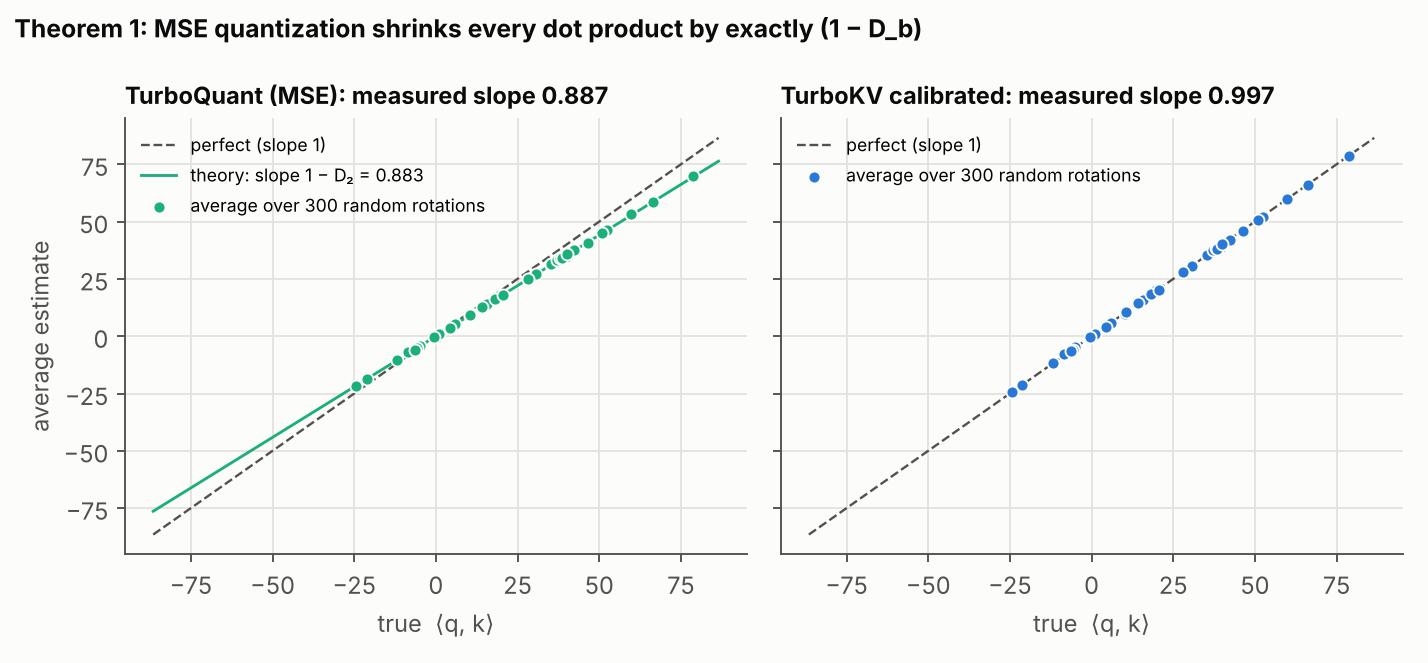
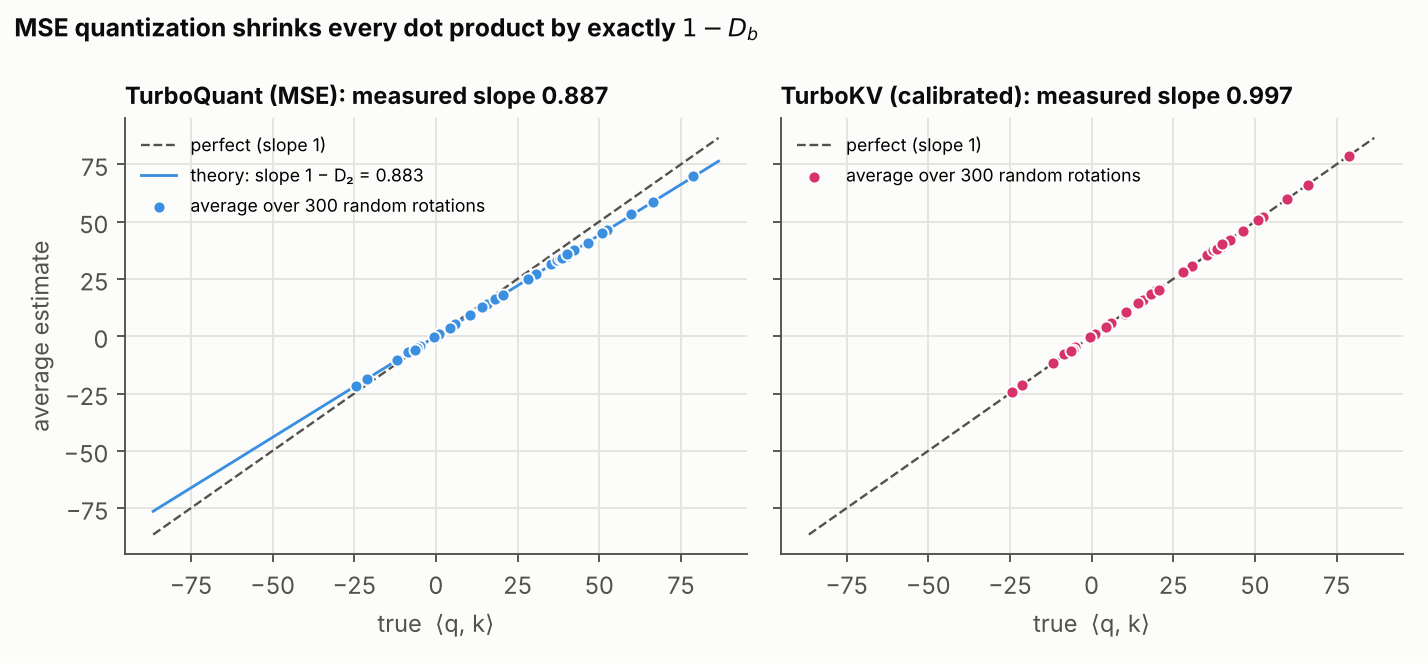
clean up labels and refresh figures

diff --git a/benchmarks/make_figures.py b/benchmarks/make_figures.py
@@ -25,7 +25,8 @@ FIG = os.path.join(ROOT, "figures")
 os.makedirs(FIG, exist_ok=True)
 
 INK, INK2, GRID, SURF = "#0b0b0b", "#52514e", "#e4e3df", "#fcfcfb"
-BLUE, ORANGE, AQUA, VIOLET, GRAY = "#2a78d6", "#eb6834", "#1baf7a", "#6250d6", "#9a9994"
+PINK, PURPLE, BLUE = "#d6336c", "#7048e8", "#3b8fe0"
+GRAY_DARK, GRAY_LIGHT = "#6b6a66", "#a8a7a2"
 
 plt.rcParams.update({
     "font.size": 10, "axes.edgecolor": INK2, "axes.labelcolor": INK2, "xtick.color": INK2,
@@ -47,30 +48,30 @@ def hero():
     runs = [json.load(open(os.path.join(ROOT, f"results/tiny_gpt_seed{s}.json")))["results"]
             for s in range(3)]
     base = runs[0][0]["ppl"]
-    series = [  # (label prefix in results, legend name, color, marker, emphasis)
-        ("int per-token", "int per-token", GRAY, "s", False),
-        ("KIVI-style", "KIVI-style", ORANGE, "^", False),
-        ("TurboQuant-mse", "TurboQuant (MSE)", AQUA, "v", False),
-        ("TurboQuant-prod", "TurboQuant (prod / QJL)", VIOLET, "D", False),
-        ("TurboKV (ours)", "TurboKV (ours)", BLUE, "o", True),
+    series = [  # (method label in results, legend name, color, marker, linestyle, emphasis)
+        ("int per-token", "int per-token", GRAY_LIGHT, "s", ":", False),
+        ("TurboQuant-mse", "TurboQuant (MSE)", GRAY_DARK, "v", "--", False),
+        ("KIVI-style", "KIVI-style", BLUE, "^", "-", False),
+        ("TurboQuant-prod", "TurboQuant (prod / QJL)", PURPLE, "D", "-", False),
+        ("TurboKV", "TurboKV", PINK, "o", "-", True),
     ]
     fig, ax = plt.subplots(figsize=(8, 4.8), dpi=170)
-    for prefix, name, c, mk, ours in series:
-        idx = [i for i, r in enumerate(runs[0]) if r["label"].startswith(prefix + " ")]
+    for method, name, c, mk, ls, hero_line in series:
+        idx = [i for i, r in enumerate(runs[0]) if r["label"].rsplit(" ", 1)[0] == method]
         bits = np.array([runs[0][i]["bits"] for i in idx])
         d = np.array([[run[i]["ppl"] - base for i in idx] for run in runs])
         mean, sd = d.mean(0), d.std(0)
         o = np.argsort(bits)
-        ax.errorbar(bits[o], mean[o], yerr=sd[o], color=c, marker=mk, ms=8 if ours else 6,
-                    lw=2.6 if ours else 1.6, capsize=3, zorder=5 if ours else 3,
+        ax.errorbar(bits[o], mean[o], yerr=sd[o], color=c, marker=mk, ms=8 if hero_line else 6,
+                    lw=2.8 if hero_line else 1.6, ls=ls, capsize=3, zorder=5 if hero_line else 3,
                     mec=SURF, mew=1.2, label=name)
-        if ours:  # the legend names the rest; one direct label avoids collisions
+        if hero_line:  # the legend names the rest; one direct label avoids collisions
             x, y = bits[o][0], mean[o][0]
             ax.annotate(f"{name}\n{16 / x:.1f}× smaller, about half the damage", (x, y),
                         xytext=(-10, 0), textcoords="offset points", ha="right", va="center",
                         fontsize=9, color=INK, fontweight="bold")
     ax.set_yscale("log")
-    ax.set_xlim(0.9, 4.7)
+    ax.set_xlim(1.3, 4.7)
     ax.set_xlabel("bits per cached number  (16 = uncompressed)")
     ax.set_ylabel("perplexity increase vs. FP16  (log, lower is better)")
     ax.set_title("Damage to a real trained GPT when its KV cache is compressed", pad=12)
@@ -94,15 +95,15 @@ def shrinkage(seeds=300, d=128):
     q[:20] += 0.25 * k
     true = (q @ k.T)[:, 0]
     fig, axes = plt.subplots(1, 2, figsize=(8.4, 3.9), dpi=170, sharey=True)
-    for ax, (cls, name, c) in zip(axes, [(TurboQuantMSE, "TurboQuant (MSE)", AQUA),
-                                         (TurboQuantCal, "TurboKV calibrated", BLUE)]):
+    for ax, (cls, name, c) in zip(axes, [(TurboQuantMSE, "TurboQuant (MSE)", BLUE),
+                                         (TurboQuantCal, "TurboKV (calibrated)", PINK)]):
         est = np.array([cls(d, 2, seed=s).inner_products(q, cls(d, 2, seed=s).quantize(k))[:, 0]
                         for s in range(seeds)]).mean(0)
         lim = np.abs(true).max() * 1.1
         ax.plot([-lim, lim], [-lim, lim], color=INK2, lw=1, ls="--", label="perfect (slope 1)")
         if cls is TurboQuantMSE:
             sl = 1 - gaussian_distortion(2)
-            ax.plot([-lim, lim], [-lim * sl, lim * sl], color=AQUA, lw=1.2,
+            ax.plot([-lim, lim], [-lim * sl, lim * sl], color=BLUE, lw=1.2,
                     label=f"theory: slope 1 − D₂ = {sl:.3f}")
         ax.scatter(true, est, s=26, color=c, edgecolor=SURF, lw=0.8, zorder=4,
                    label="average over 300 random rotations")
@@ -112,7 +113,7 @@ def shrinkage(seeds=300, d=128):
         _style(ax)
         ax.legend(frameon=False, fontsize=7.5, loc="upper left")
     axes[0].set_ylabel("average estimate")
-    fig.suptitle("Theorem 1: MSE quantization shrinks every dot product by exactly (1 − D_b)",
+    fig.suptitle("MSE quantization shrinks every dot product by exactly $1 - D_b$",
                  x=0.01, ha="left", fontweight="bold", color=INK, fontsize=10.5)
     fig.tight_layout()
     fig.savefig(os.path.join(FIG, "shrinkage.png"))
@@ -138,9 +139,9 @@ def variance(seeds=200, d=128):
     fig, ax = plt.subplots(figsize=(7.6, 4.2), dpi=170)
     x = np.arange(len(bits))
     w = 0.36
-    for off, key, name, c in ((-w / 2 - 0.01, "qjl", "TurboQuant prod (QJL)", VIOLET),
-                              (w / 2 + 0.01, "cal", "TurboKV calibrated (ours)", BLUE)):
-        ax.bar(x + off, meas[key], w, color=c, label=name + " — measured", zorder=3)
+    for off, key, name, c in ((-w / 2 - 0.01, "qjl", "TurboQuant prod (QJL)", PURPLE),
+                              (w / 2 + 0.01, "cal", "TurboKV (calibrated)", PINK)):
+        ax.bar(x + off, meas[key], w, color=c, label=name + ", measured", zorder=3)
         th = [variance_factor(key, b) for b in bits]
         ax.scatter(x + off, th, marker="_", s=500, color=INK, lw=1.6, zorder=4)
     ax.scatter([], [], marker="_", s=200, color=INK, label="closed-form theory")
@@ -151,7 +152,7 @@ def variance(seeds=200, d=128):
     ax.set_yscale("log")
     ax.set_xticks(x, [f"{b} bit{'s' if b > 1 else ''}" for b in bits])
     ax.set_ylabel("variance of ⟨q, k̂⟩   (units of ‖q‖²/d, log)")
-    ax.set_title("Theorem 2: same bits, both unbiased — calibration has far less noise", pad=10)
+    ax.set_title("Same bits, both unbiased: calibration has far less noise", pad=10)
     _style(ax)
     ax.grid(axis="x", visible=False)
     ax.legend(frameon=False, fontsize=8.5)

diff --git a/benchmarks/bench_attention.py b/benchmarks/bench_attention.py
@@ -27,7 +27,7 @@ METHODS = [
     *[(f"KIVI-style int{b}", f"kivi{b}", False, "kivi") for b in (4, 3, 2)],
     *[(f"TurboQuant-prod K{b}V{b}", f"qjl{b}/mse{b}", False, "qjl") for b in (4, 3, 2)],
     *[(f"TurboQuant-mse K{b}V{b}", f"mse{b}/mse{b}", False, "mse") for b in (4, 3, 2)],
-    *[(f"TurboKV K{b}V{b} (ours)", f"cal{b}/cal{b}", False, "cal") for b in (4, 3, 2)],
+    *[(f"TurboKV K{b}V{b}", f"cal{b}/cal{b}", False, "cal") for b in (4, 3, 2)],
     *[(f"TurboKV+NAT K{b}V{b}", f"cal{b}/cal{b}", True, "calna") for b in (4, 3, 2)],
 ]
 
@@ -93,12 +93,13 @@ def print_table(rows):
 
 
 STYLE = {
-    "int": ("#9a9994", "s", "int-b per-token"),
-    "kivi": ("#eb6834", "^", "KIVI-style (per-channel keys)"),
-    "qjl": ("#6250d6", "D", "TurboQuant-prod (QJL keys)"),
-    "mse": ("#1baf7a", "v", "TurboQuant-mse"),
-    "cal": ("#2a78d6", "o", "TurboKV: calibrated K+V (ours)"),
-    "calna": ("#52514e", "*", "TurboKV + NAT (experimental)"),
+    # (color, marker, linestyle, label)
+    "int": ("#a8a7a2", "s", ":", "int-b per-token"),
+    "mse": ("#6b6a66", "v", "--", "TurboQuant-mse"),
+    "kivi": ("#3b8fe0", "^", "-", "KIVI-style (per-channel keys)"),
+    "qjl": ("#7048e8", "D", "-", "TurboQuant-prod (QJL keys)"),
+    "cal": ("#d6336c", "o", "-", "TurboKV"),
+    "calna": ("#d6336c", "*", "--", "TurboKV + NAT (experimental)"),
 }
 
 
@@ -108,19 +109,24 @@ def plot(rows, path, metric="kl", ylabel="attention KL divergence (log)"):
     matplotlib.use("Agg")
     import matplotlib.pyplot as plt
 
-    fig, ax = plt.subplots(figsize=(7.8, 4.8), dpi=160)
-    for fam, (c, mk, label) in STYLE.items():
+    plt.rcParams.update({"font.size": 10, "axes.edgecolor": "#52514e", "axes.labelcolor": "#52514e",
+                         "xtick.color": "#52514e", "ytick.color": "#52514e", "figure.facecolor": "#fcfcfb",
+                         "axes.facecolor": "#fcfcfb", "savefig.facecolor": "#fcfcfb"})
+    fig, ax = plt.subplots(figsize=(8, 4.8), dpi=170)
+    for fam, (c, mk, ls, label) in STYLE.items():
         pts = sorted((r["bits"], r[metric]) for r in rows if r["family"] == fam)
         if pts:
             xs, ys = zip(*pts)
-            ours = fam in ("cal", "calna")
-            ax.plot(xs, ys, marker=mk, color=c, label=label, lw=2.2 if ours else 1.2,
-                    ms=9 if mk == "*" else 6, alpha=1 if ours else 0.85)
+            main = fam == "cal"
+            ax.plot(xs, ys, marker=mk, color=c, label=label, lw=2.6 if main else 1.4, ls=ls,
+                    ms=9 if mk == "*" else 6, mec="#fcfcfb", mew=1, zorder=5 if main else 3)
     ax.set_yscale("log")
     ax.set_xlabel("bits per cached number (including scales / norms)")
     ax.set_ylabel(ylabel)
-    ax.set_title("KV-cache compression: error vs. memory  (lower-left is better)")
-    ax.grid(alpha=0.3, which="both")
+    ax.set_title("Synthetic outlier-heavy attention: error vs. memory (lower-left is better)",
+                 loc="left", fontweight="bold", color="#0b0b0b", pad=12)
+    ax.grid(color="#e4e3df", lw=0.8, which="major")
+    ax.set_axisbelow(True)
     ax.spines[["top", "right"]].set_visible(False)
     ax.legend(frameon=False, fontsize=8.5)
     fig.tight_layout()

diff --git a/turbokv/quantizer.py b/turbokv/quantizer.py
@@ -2,7 +2,7 @@
 
     TurboQuantMSE   values; minimizes ||x - x_hat||^2           (Zandieh et al. 2025)
     TurboQuantProd  keys; (b-1)-bit MSE + 1-bit QJL residual     (Zandieh et al. 2025)
-    TurboQuantCal   keys; b-bit MSE + one *calibrated* scale     (this repo)
+    TurboQuantCal   keys; b-bit MSE + one *calibrated* scale     (TurboKV)
 
 ----------------------------------------------------------------------------
 The new idea (TurboQuantCal): unbiased inner products for zero extra bits.
@@ -39,7 +39,7 @@ Gao & Long 2024; here it is paired with optimal multi-bit Lloyd-Max codes.)
 Variance comparison, unit vectors, d dims, in units of ||q||^2 / d:
                      1 bit     2 bits    3 bits    4 bits
   QJL (TurboQuant)   1.571     0.571     0.185     0.054     = (pi/2) D_{b-1}
-  calibrated (ours)  0.571     0.133     0.036     0.0096    = D_b / (1 - D_b)
+  calibrated         0.571     0.133     0.036     0.0096    = D_b / (1 - D_b)
   -> 2.8x to 5.7x lower variance at the same bit budget.
 The QJL bit buys unbiasedness at the cost of one bit of precision; the
 calibrated scale gets unbiasedness for free and keeps all b bits for the code.

diff --git a/examples/eval_perplexity.py b/examples/eval_perplexity.py
@@ -41,7 +41,7 @@ DEFAULT_METHODS = [
           ("KIVI-style", "kivi{b}", False),
           ("TurboQuant-prod", "qjl{b}/mse{b}", False),
           ("TurboQuant-mse", "mse{b}/mse{b}", False),
-          ("TurboKV (ours)", "cal{b}/cal{b}", False),
+          ("TurboKV", "cal{b}/cal{b}", False),
           ("TurboKV + NAT (experimental)", "cal{b}/cal{b}", True),
       ]],
 ]

diff --git a/README.md b/README.md
@@ -172,7 +172,7 @@ install `transformers` and run `python examples/eval_perplexity.py --hf gpt2 --t
 
 ```
 turbokv/
-  quantizer.py   TurboQuantMSE, TurboQuantProd (QJL), TurboQuantCal (this work)
+  quantizer.py   TurboQuantMSE, TurboQuantProd (QJL), TurboQuantCal (the calibrated quantizer)
   hadamard.py    fast Walsh-Hadamard transform, randomized rotation
   lloyd_max.py   optimal Gaussian codebooks via Lloyd's algorithm
   cache.py       TurboKVCache: streaming compressed cache + attention
